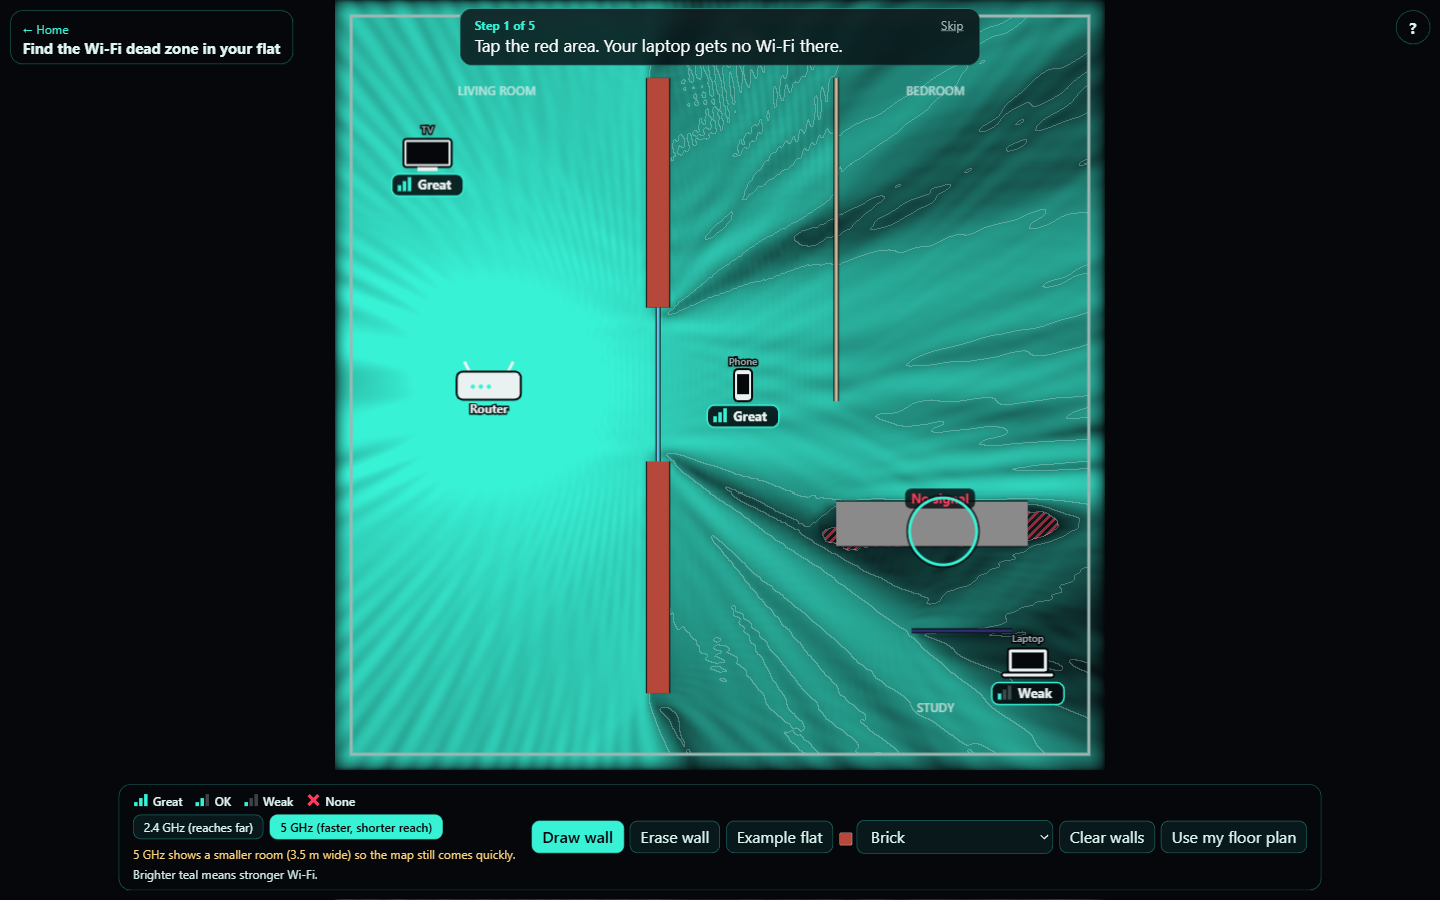
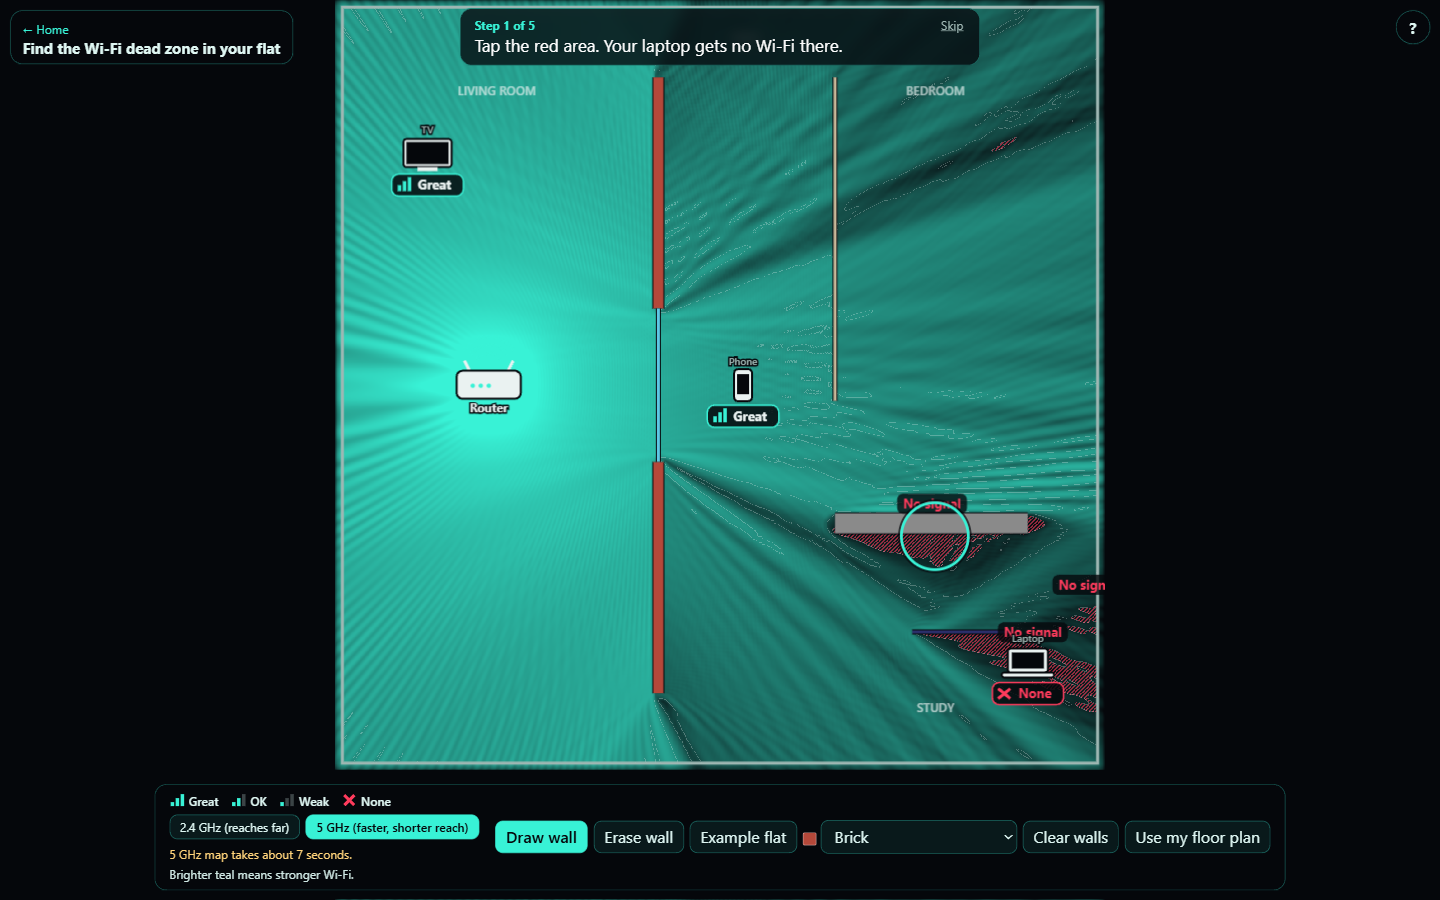
Wi-Fi 5 GHz: same flat size on GPU (1704 cells at 0.45 cm), plain 'takes about N seconds' line

Changed region(s): [[0.0938, 0.0, 0.7812, 0.9956], [0.7188, 0.9022, 0.9062, 0.9644]]

diff --git a/apps/wifi-deadzone/src/App.tsx b/apps/wifi-deadzone/src/App.tsx
@@ -6,7 +6,7 @@ import { drawDevice, drawNoSignal, drawOuterWall, drawRoomLabel, drawRouter, dra
 import { findDeadZones, levelOf, levelWord, paintGuess, paintHeatmap, smoothPower, type DeadZones } from "./heatmap";
 import { WALL_MATERIALS, wallMaterial, type WallMaterialId } from "./materials";
 import { HelpPanel, Pinger, SketchDialog, WipeBar, thump, useReducedMotion, type SketchApplied } from "./radar";
-import { BANDS, CELL_M, CPML_CELLS, type Band, EXAMPLE_LABELS, buildJob, defaultDevices, defaultScene, referencePower, toDb, type Device, type Scene, type Wall } from "./scene";
+import { BANDS, CELL_M, CPML_CELLS, gridFor, type Band, EXAMPLE_LABELS, buildJob, defaultDevices, defaultScene, referencePower, toDb, type Device, type Scene, type Wall } from "./scene";
 import { pickBackend, startSim, type Backend, type SimHandle } from "./sim";
 
 const CANVAS_PX = 768;
@@ -61,6 +61,7 @@ export default function App() {
   const [draft, setDraft] = useState<Wall | null>(null);
   const [status, setStatus] = useState<Status>({ text: "Starting up…", fraction: null });
   const [band, setBand] = useState<Band>("2.4");
+  const [mapSecs5, setMapSecs5] = useState<number | null>(null);
   const [stale, setStale] = useState(false);
   const [hasMap, setHasMap] = useState(false);
   const [mapVersion, setMapVersion] = useState(0);
@@ -102,7 +103,8 @@ export default function App() {
 
   /** Cell size of the chosen band, in metres. */
   const cell = BANDS[band].cellM;
-  const roomM = backend ? backend.n * cell : PROVISIONAL_M;
+  const gridN = backend ? gridFor(backend.kind, backend.n, band) : 0;
+  const roomM = backend ? gridN * cell : PROVISIONAL_M;
   /** Icon and text scale: 1 on a big screen, about 2 on a phone, so the pictures stay readable. */
   const u = Math.max(1, CANVAS_PX / cssW);
 
@@ -119,7 +121,7 @@ export default function App() {
     simRef.current?.cancel();
     const t0 = performance.now();
     try {
-      const built = buildJob(s, b.n, { band: bandRef.current });
+      const built = buildJob(s, gridFor(b.kind, b.n, bandRef.current), { band: bandRef.current });
       setStatus({ text: "Starting…", fraction: 0 });
       const sim = startSim(b, built.job, (fraction, phase) =>
         setStatus({ text: phase === "settle" ? "Letting the waves spread…" : "Averaging the signal…", fraction }),
@@ -144,6 +146,7 @@ export default function App() {
             frozenRef.current = false;
             setWipe({ show: true, pos: 50 });
           }
+          if (bandRef.current === "5") setMapSecs5(Math.max(1, Math.round((performance.now() - t0) / 1000)));
           setStatus({ text: `Last map: ${r.steps} steps in ${((performance.now() - t0) / 1000).toFixed(1)} s`, fraction: null });
         })
         .catch((e) => setStatus({ text: `Simulation failed: ${String(e)}`, fraction: null, error: true }));
@@ -157,6 +160,17 @@ export default function App() {
     if (heatRef.current) paintGuess(heatRef.current, 0.2, 0.5);
   }, []);
 
+  /** A wave player sized for a grid of n cells (a wave crosses the room about 1.6 times). */
+  const makePinger = (b: Backend, n: number) => {
+    pingerRef.current?.cancel();
+    pingerRef.current?.host.remove();
+    const p = new Pinger(b.kind === "webgpu" ? SPF_GPU : SPF_CPU, Math.round((1.6 * n) / COURANT));
+    p.onActive = setPinging;
+    pingerRef.current = p;
+    const m = mapRef.current;
+    if (m) m.insertBefore(p.host, overlayRef.current);
+  };
+
   useEffect(() => {
     pickBackend().then((b) => {
       backendRef.current = b;
@@ -165,12 +179,7 @@ export default function App() {
       sceneRef.current = s;
       setScene(s);
       setDevices(defaultDevices(b.n * CELL_M));
-      const crossing = b.n / COURANT;
-      const p = new Pinger(b.kind === "webgpu" ? SPF_GPU : SPF_CPU, Math.round(1.6 * crossing));
-      p.onActive = setPinging;
-      pingerRef.current = p;
-      const m = mapRef.current;
-      if (m) m.insertBefore(p.host, overlayRef.current);
+      makePinger(b, b.n);
       run();
     });
     return () => {
@@ -240,13 +249,13 @@ export default function App() {
   /** Signal level at a spot (smoothed map), or null while there is no fresh map. */
   const levelAt = useCallback(
     (x: number, y: number): 0 | 1 | 2 | 3 | null => {
-      const n = backend?.n;
+      const n = gridN;
       if (!n || !dbRef.current || !hasMap || stale) return null;
       const i = Math.min(n - 1, Math.max(0, Math.floor(x / cell)));
       const j = Math.min(n - 1, Math.max(0, Math.floor(y / cell)));
       return levelOf(dbRef.current[j * n + i]!);
     },
-    [backend, hasMap, stale, cell],
+    [backend, hasMap, stale, cell, gridN],
   );
 
   // Floor plan overlay: outer wall, imported walls, walls, room names, no-signal tags, router, devices. Drawn from the first frame.
@@ -298,7 +307,7 @@ export default function App() {
   const grabM = Math.max(Math.min(GRAB_M, roomM * 0.05), (26 / cssW) * roomM);
 
   const cellAt = (p: { x: number; y: number }): number => {
-    const n = backend?.n;
+    const n = gridN;
     if (!n) return -1;
     const i = Math.floor(p.x / cell);
     const j = Math.floor(p.y / cell);
@@ -326,7 +335,7 @@ export default function App() {
     }
     try {
       if (!liveRef.current) {
-        const built = buildJob(sceneRef.current, b.n, { band: bandRef.current });
+        const built = buildJob(sceneRef.current, gridFor(b.kind, b.n, bandRef.current), { band: bandRef.current });
         const sim = createLiveSim({ cs: built.job.cs, backend: b.kind === "webgpu" ? "gpu" : "cpu", device: b.kind === "webgpu" ? b.device : undefined, pulseHz: BANDS[bandRef.current].freqHz });
         liveRef.current = sim;
         pg.attach(sim);
@@ -431,13 +440,18 @@ export default function App() {
   /** Switch Wi-Fi band. The room shrinks at 5 GHz (finer cells, same grid), so everything is rescaled to keep its place. */
   const changeBand = (next: Band) => {
     if (!backend || next === band) return;
-    const newRoom = backend.n * BANDS[next].cellM;
+    const newN = gridFor(backend.kind, backend.n, next);
+    const newRoom = newN * BANDS[next].cellM;
     const ratio = newRoom / roomM;
     const sc = (v: number) => Math.round(v * ratio * 1000) / 1000;
-    pingerRef.current?.cancel();
+    makePinger(backend, newN);
     liveRef.current?.destroy();
     liveRef.current = null;
     bandRef.current = next;
+    // a quick picture while the real map is worked out
+    if (heatRef.current) paintGuess(heatRef.current, 0.2, 0.5);
+    dbRef.current = null;
+    deadRef.current = null;
     setBand(next);
     setDevices((ds) => ds.map((d) => ({ ...d, x: d.x * ratio, y: d.y * ratio })));
     if (photoRef.current) photoRef.current = { photo: photoRef.current.photo, wM: photoRef.current.wM * ratio, hM: photoRef.current.hM * ratio };
@@ -502,7 +516,7 @@ export default function App() {
 
   // Where the map ring goes for the current step, as fractions of the map side.
   let ring: { fx: number; fy: number } | null = null;
-  if (scene && step === 0 && hasMap && deadRef.current?.blobs[0] && backend) ring = { fx: deadRef.current.blobs[0].cx / backend.n, fy: deadRef.current.blobs[0].cy / backend.n };
+  if (scene && step === 0 && hasMap && deadRef.current?.blobs[0] && backend) ring = { fx: deadRef.current.blobs[0].cx / gridN, fy: deadRef.current.blobs[0].cy / gridN };
   else if (scene && step === 0 && hasMap && devices[2]) ring = { fx: devices[2].x / roomM, fy: devices[2].y / roomM };
   else if (scene && step === 1) ring = { fx: scene.router.x / roomM, fy: scene.router.y / roomM };
   else if (step === 3) ring = { fx: 0.5, fy: 0.5 };
@@ -595,7 +609,8 @@ export default function App() {
               5 GHz (faster, shorter reach)
             </button>
           </div>
-          {band === "5" && <div className="bandnote">5 GHz shows a smaller room ({roomM.toFixed(1)} m wide) so the map still comes quickly.</div>}
+          {band === "5" && backend?.kind === "cpu" && <div className="bandnote">5 GHz shows a smaller room ({roomM.toFixed(1)} m wide) so the map still comes quickly.</div>}
+          {band === "5" && backend?.kind === "webgpu" && <div className="bandnote">5 GHz map takes about {mapSecs5 ?? 10} seconds{stale || status.fraction !== null ? " (working on it)" : ""}.</div>}
           <div className="key">
             <span>Brighter teal means stronger Wi-Fi.</span>
             {cursorWord && <span>Here: {cursorWord}</span>}
@@ -629,7 +644,7 @@ export default function App() {
         </div>
       </div>
       {sketchOpen && backend && (
-        <SketchDialog cellMetres={cell} maxCols={backend.n} maxRows={backend.n} onApply={applySketch} onClose={() => setSketchOpen(false)} />
+        <SketchDialog cellMetres={cell} maxCols={gridN} maxRows={gridN} onApply={applySketch} onClose={() => setSketchOpen(false)} />
       )}
     </>
   );

diff --git a/apps/wifi-deadzone/src/scene.ts b/apps/wifi-deadzone/src/scene.ts
@@ -9,14 +9,21 @@ export const CELL_M = 0.01;
 export type Band = "2.4" | "5";
 /**
  * Per band: Wi-Fi centre frequency and cell size. 5 GHz (centre 5.5 GHz, wavelength 5.45 cm) needs cells of
- * 0.454 cm or less for 12 cells per wavelength, so it uses 0.45 cm (12.1 cells). The grid stays the same size,
- * so a map costs the same as at 2.4 GHz and the room is 0.45 times as wide. shortcut: a smaller room at 5 GHz
- * instead of a bigger grid (8x the work); upgrade when a 1536-cell grid is fast enough.
+ * 0.454 cm or less for 12 cells per wavelength, so it uses 0.45 cm (12.1 cells). On the CPU the grid stays the same
+ * size, so the room is 0.45 times as wide (shortcut: a CPU map for the full room would take minutes). See gridFor.
  */
 export const BANDS: Record<Band, { freqHz: number; cellM: number }> = {
   "2.4": { freqHz: FREQ_HZ, cellM: CELL_M },
   "5": { freqHz: FREQ_5_HZ, cellM: 0.0045 },
 };
+/**
+ * Grid side for a band. On the GPU 5 GHz keeps the 2.4 GHz room size (7.7 m): 7.68 m / 0.45 cm = 1707 cells,
+ * rounded to a multiple of 8 (1704). The CPU fallback keeps the same grid as 2.4 GHz, so its 5 GHz room is smaller.
+ */
+export function gridFor(kind: "webgpu" | "cpu", n24: number, band: Band): number {
+  if (band === "5" && kind === "webgpu") return Math.round((n24 * CELL_M) / BANDS["5"].cellM / 8) * 8;
+  return n24;
+}
 export function cellsPerWavelength(band: Band): number {
   return C0 / BANDS[band].freqHz / BANDS[band].cellM;
 }

diff --git a/apps/wifi-deadzone/tests/band.test.ts b/apps/wifi-deadzone/tests/band.test.ts
@@ -1,7 +1,7 @@
 import { describe, expect, it } from "vitest";
 import { runCpuJob } from "@core/runtime/cpuJob";
 import { FREQ_5_HZ, FREQ_HZ, WALL_MATERIALS, ituEpsSigma, materialFor, type WallMaterialId } from "../src/materials";
-import { BANDS, buildJob, cellsPerWavelength, type Band, type Scene } from "../src/scene";
+import { BANDS, buildJob, cellsPerWavelength, gridFor, type Band, type Scene } from "../src/scene";
 import { C0 } from "../src/materials";
 
 describe("5 GHz materials", () => {
@@ -34,6 +34,16 @@ describe("5 GHz materials", () => {
     expect(cellsPerWavelength("2.4")).toBeGreaterThanOrEqual(12);
     expect(BANDS["5"].cellM).toBeLessThan(BANDS["2.4"].cellM);
     expect(C0 / FREQ_5_HZ / BANDS["5"].cellM).toBeGreaterThanOrEqual(12);
+  });
+});
+
+describe("5 GHz grid", () => {
+  it("on the GPU 5 GHz keeps the 7.68 m room; the CPU keeps the grid", () => {
+    const n = gridFor("webgpu", 768, "5");
+    expect(Math.abs(n * BANDS["5"].cellM - 7.68)).toBeLessThan(0.05);
+    expect(n).toBeLessThan(2048);
+    expect(gridFor("webgpu", 768, "2.4")).toBe(768);
+    expect(gridFor("cpu", 384, "5")).toBe(384);
   });
 });
 
